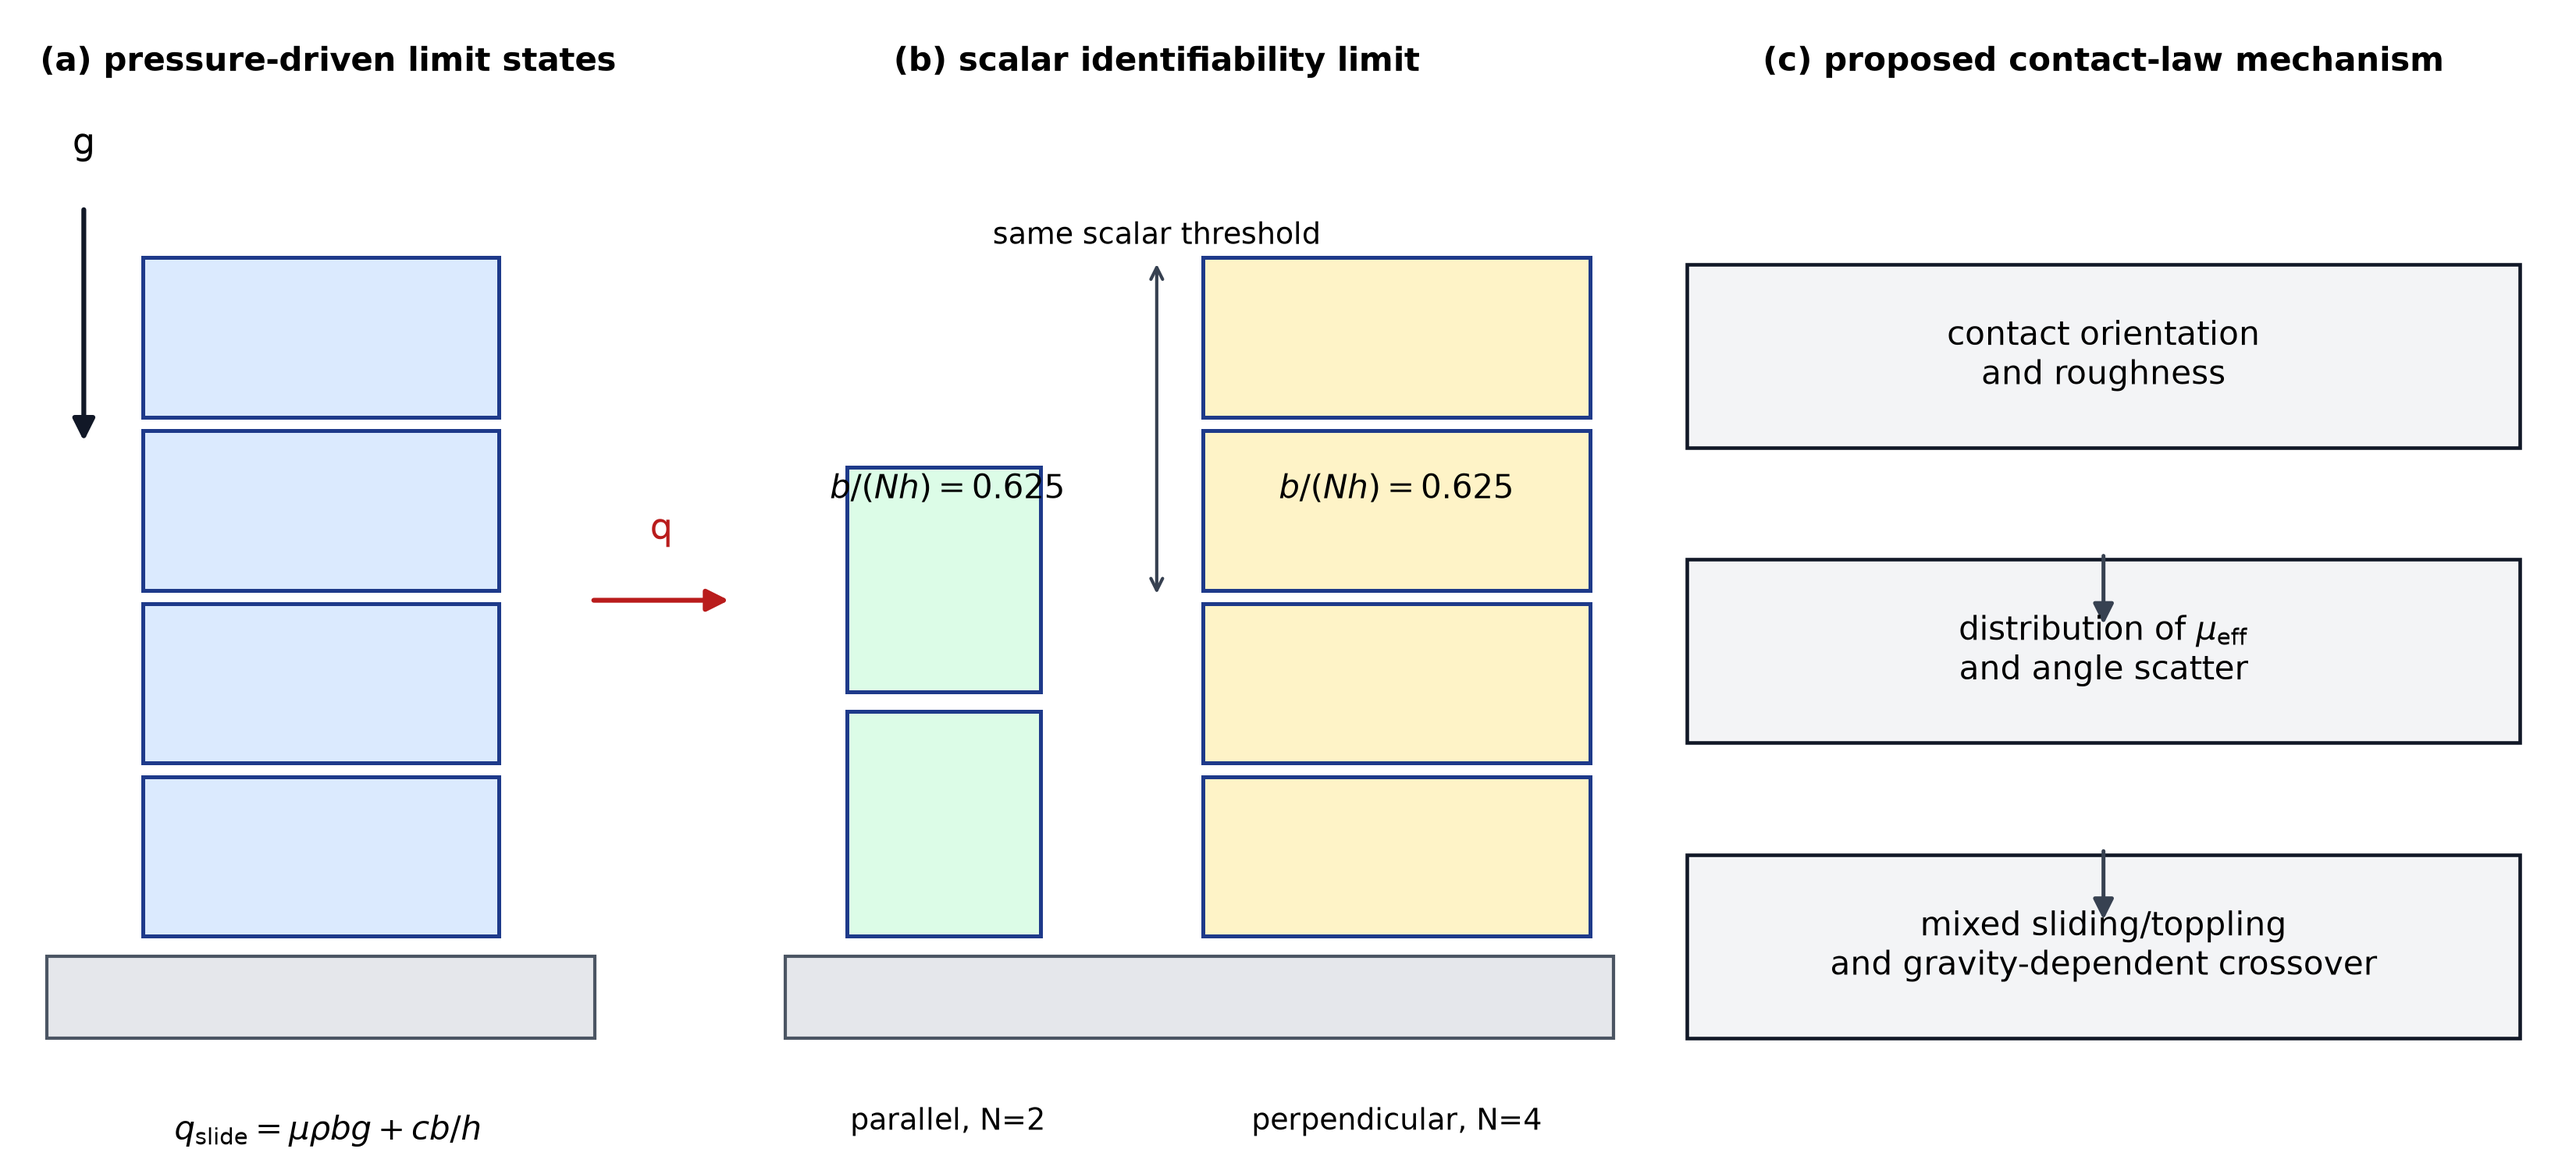
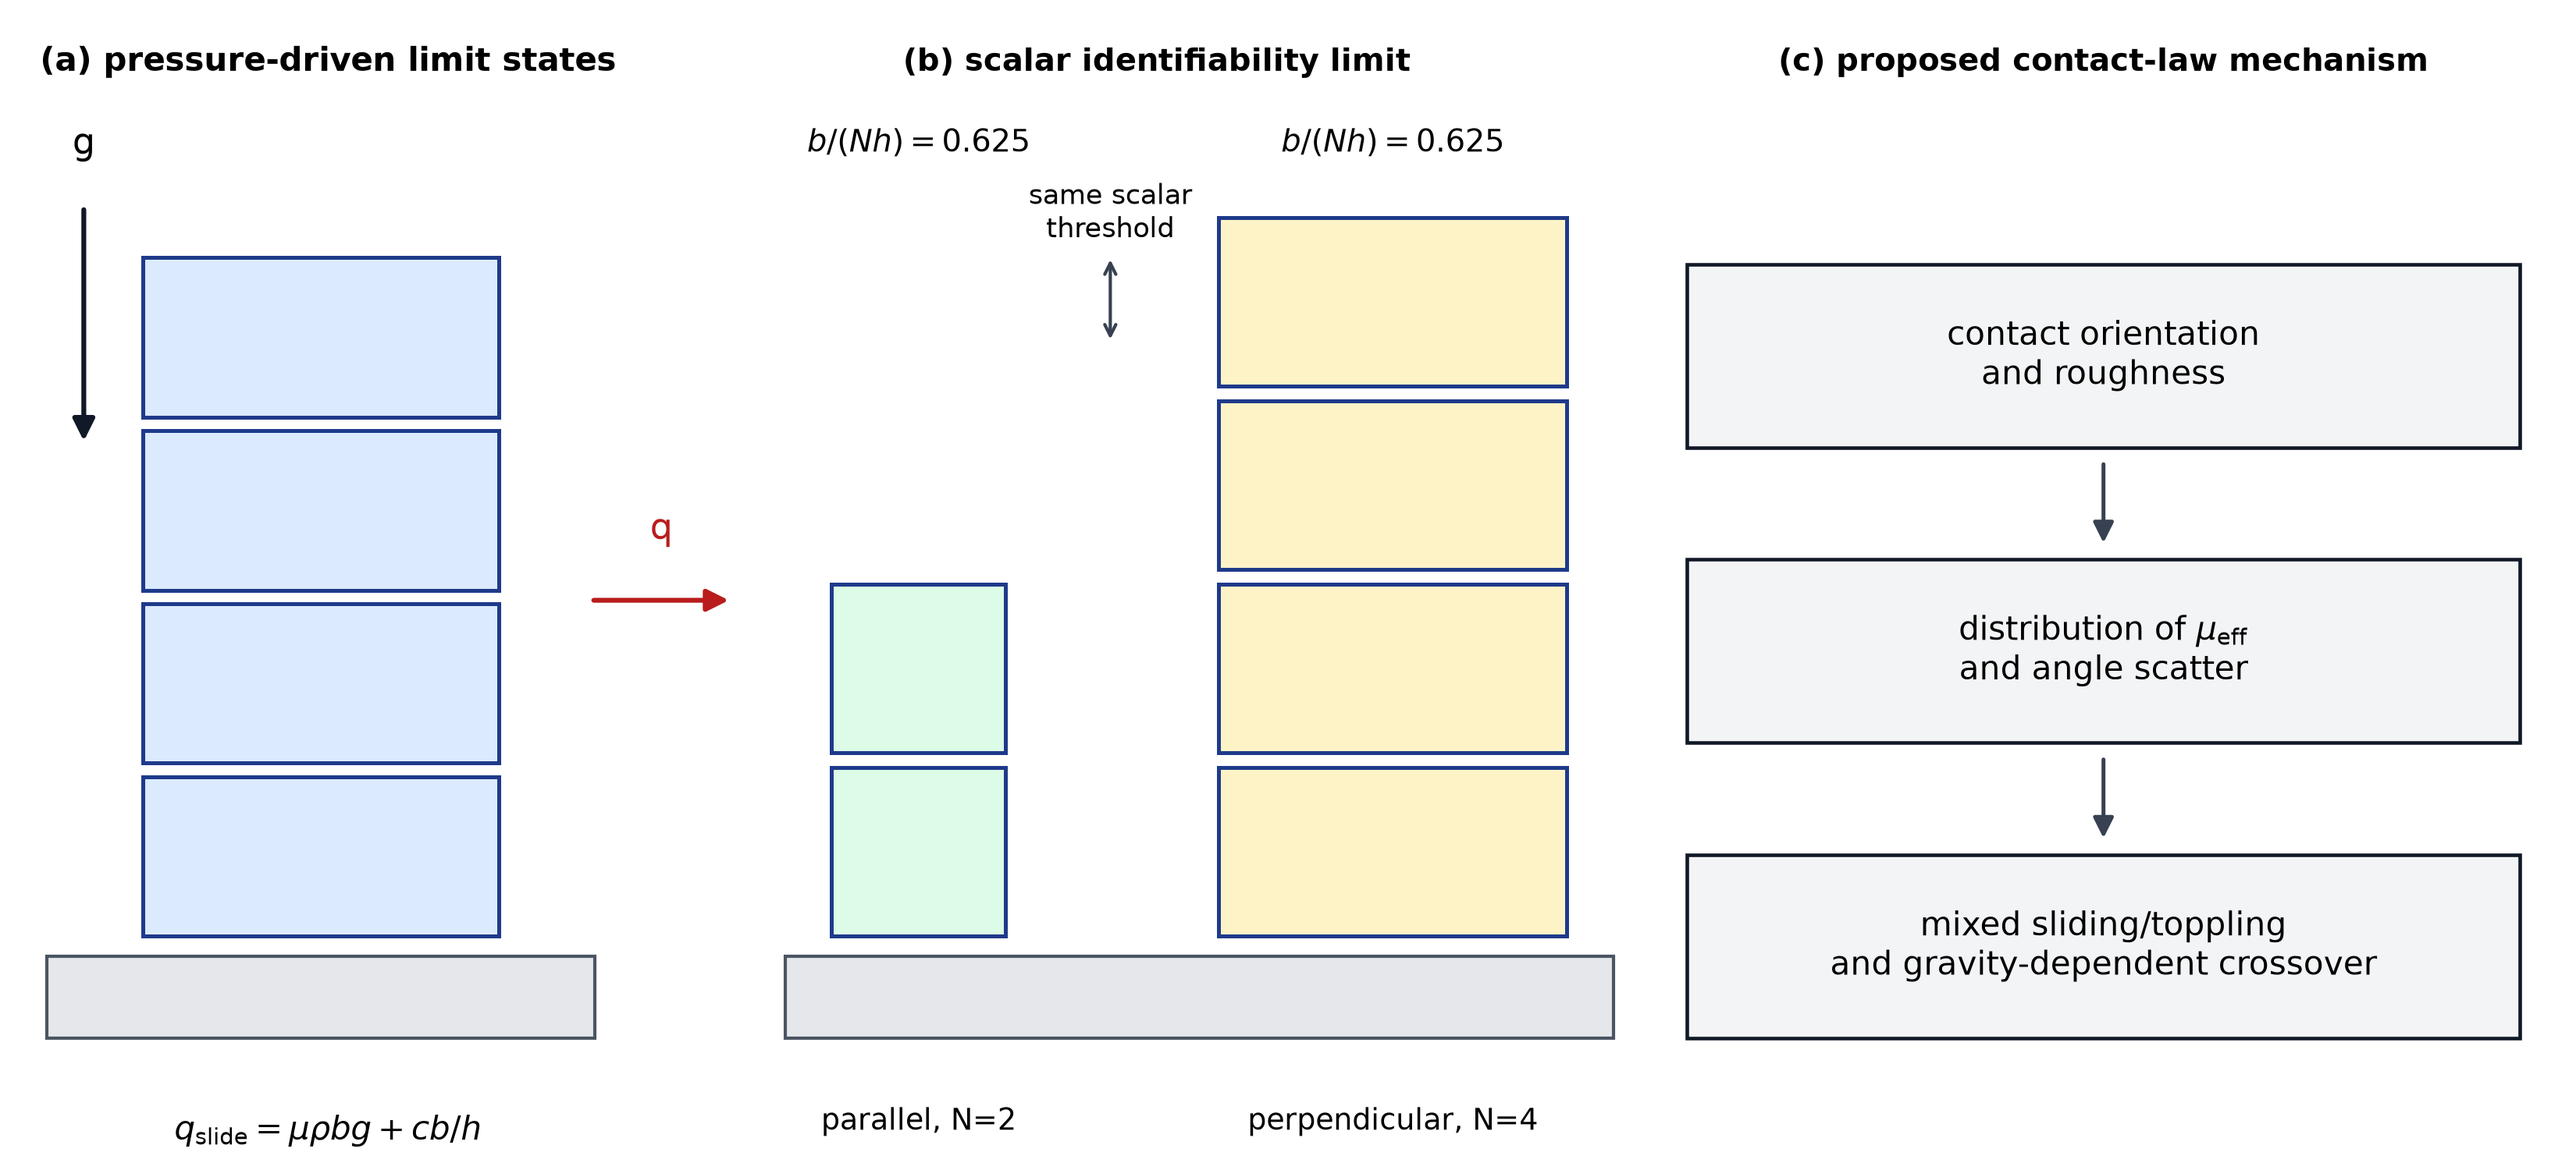
Align mechanism schematic geometry and arrows

diff --git a/code/make_submission_figures.py b/code/make_submission_figures.py
@@ -54,16 +54,18 @@ def main():
     ax1.set_xlim(0, 1.0); ax1.set_ylim(0, 1.13); ax1.axis("off")
 
     # (b) geometry-equivalent cases and contact architecture
-    draw_stack(ax2, 0.10, 0.22, 0.25, 0.24, 2, color="#dcfce7")
-    draw_stack(ax2, 0.56, 0.22, 0.50, 0.17, 4, color="#fef3c7")
+    # Use the same scalar geometry score in the drawing as in the text:
+    # b/(2h)=0.225/(2*0.18)=0.625 and b/(4h)=0.45/(4*0.18)=0.625.
+    draw_stack(ax2, 0.08, 0.22, 0.225, 0.18, 2, color="#dcfce7")
+    draw_stack(ax2, 0.58, 0.22, 0.45, 0.18, 4, color="#fef3c7")
     ax2.add_patch(Rectangle((0.02, 0.12), 1.07, 0.08, facecolor="#e5e7eb", edgecolor="#4b5563"))
-    ax2.text(0.23, 0.65, r"$b/(Nh)=0.625$", ha="center", fontsize=10)
-    ax2.text(0.81, 0.65, r"$b/(Nh)=0.625$", ha="center", fontsize=10)
-    ax2.text(0.23, 0.03, "parallel, N=2", ha="center", fontsize=9)
-    ax2.text(0.81, 0.03, "perpendicular, N=4", ha="center", fontsize=9)
-    ax2.annotate("same scalar threshold", xy=(0.50, 0.55), xytext=(0.50, 0.90), ha="center",
-                 arrowprops=dict(arrowstyle="<->", color="#374151"), fontsize=9)
-    ax2.text(0.50, 1.07, "(b) scalar identifiability limit", ha="center", fontweight="bold")
+    ax2.text(0.1925, 0.99, r"$b/(Nh)=0.625$", ha="center", fontsize=9.5)
+    ax2.text(0.805, 0.99, r"$b/(Nh)=0.625$", ha="center", fontsize=9.5)
+    ax2.text(0.1925, 0.03, "parallel, N=2", ha="center", fontsize=9)
+    ax2.text(0.805, 0.03, "perpendicular, N=4", ha="center", fontsize=9)
+    ax2.annotate("same scalar\nthreshold", xy=(0.44, 0.80), xytext=(0.44, 0.93), ha="center",
+                 va="center", arrowprops=dict(arrowstyle="<->", color="#374151"), fontsize=8.5)
+    ax2.text(0.50, 1.07, "(b) scalar identifiability limit", ha="center", fontweight="bold", fontsize=9.5)
     ax2.set_xlim(0, 1.1); ax2.set_ylim(0, 1.13); ax2.axis("off")
 
     # (c) mechanism chain
@@ -75,9 +77,11 @@ def main():
     for x, y, w, h, label in boxes:
         ax3.add_patch(Rectangle((x, y), w, h, facecolor="#f3f4f6", edgecolor="#111827", linewidth=1.1))
         ax3.text(x + w / 2, y + h / 2, label, ha="center", va="center", fontsize=10)
-    for y in (0.60, 0.31):
-        ax3.add_patch(FancyArrowPatch((0.50, y), (0.50, y - 0.08), arrowstyle="-|>", mutation_scale=13, linewidth=1.2, color="#374151"))
-    ax3.text(0.50, 1.07, "(c) proposed contact-law mechanism", ha="center", fontweight="bold")
+    # Place arrows in the actual gaps between boxes, rather than inside the
+    # destination boxes, so the causal chain is visually unambiguous.
+    for y0, y1 in ((0.69, 0.60), (0.40, 0.31)):
+        ax3.add_patch(FancyArrowPatch((0.50, y0), (0.50, y1), arrowstyle="-|>", mutation_scale=13, linewidth=1.2, color="#374151"))
+    ax3.text(0.50, 1.07, "(c) proposed contact-law mechanism", ha="center", fontweight="bold", fontsize=9.5)
     ax3.set_xlim(0, 1.0); ax3.set_ylim(0, 1.13); ax3.axis("off")
 
     fig.savefig(OUT / "fig1_mechanism_schematic.png", dpi=300)
